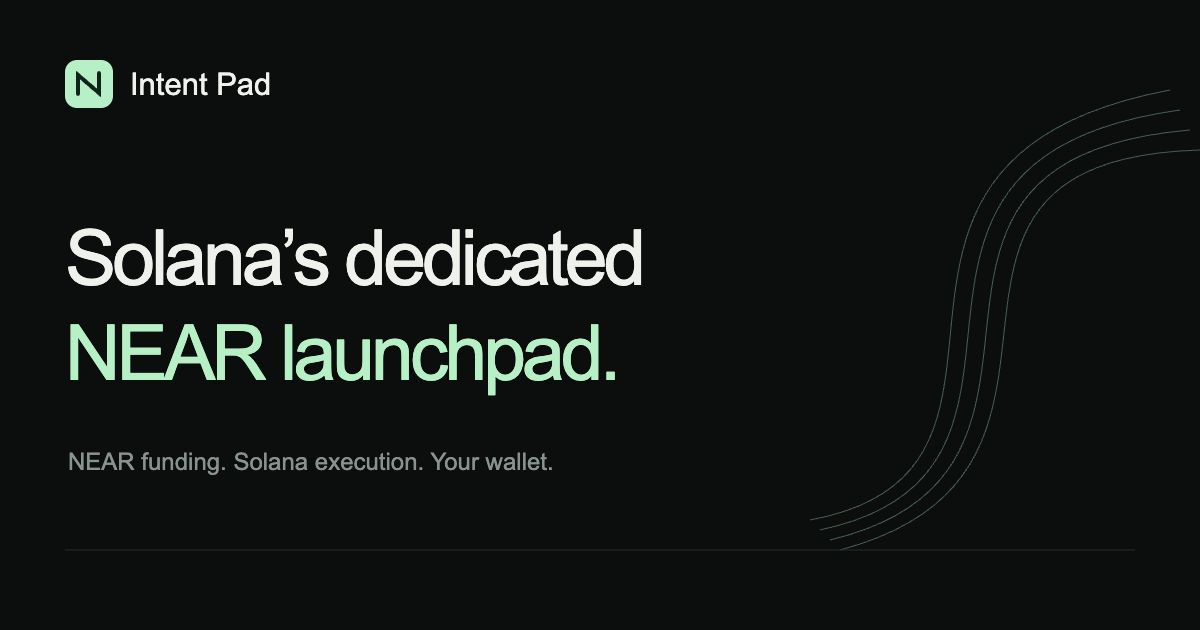
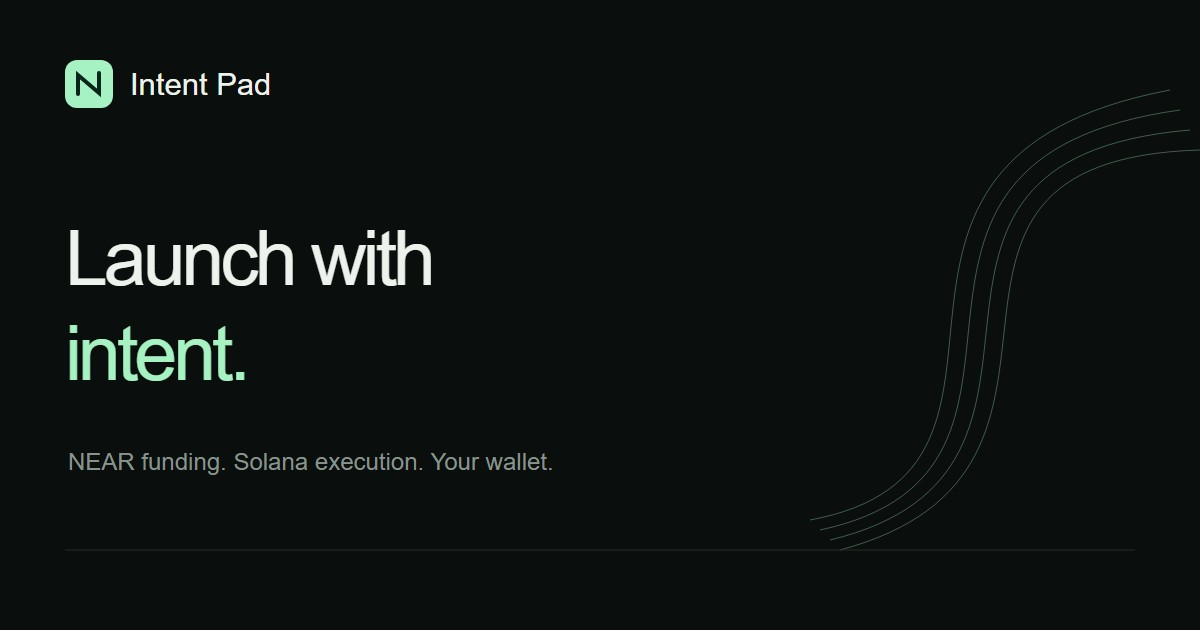
Change the homepage headline to "Launch with intent."
Also update the social share image (svg and the jpg used by og:image).

diff --git a/src/App.tsx b/src/App.tsx
@@ -372,9 +372,9 @@ export default function App() {
                   <span className="status-dot" /> NEAR POWERED. SOLANA NATIVE.
                 </span>
                 <h1>
-                  Solana’s dedicated
+                  Launch with
                   <br />
-                  <span>NEAR launchpad.</span>
+                  <span>intent.</span>
                 </h1>
                 <p>
                   Launch a coin paired with NEAR.
